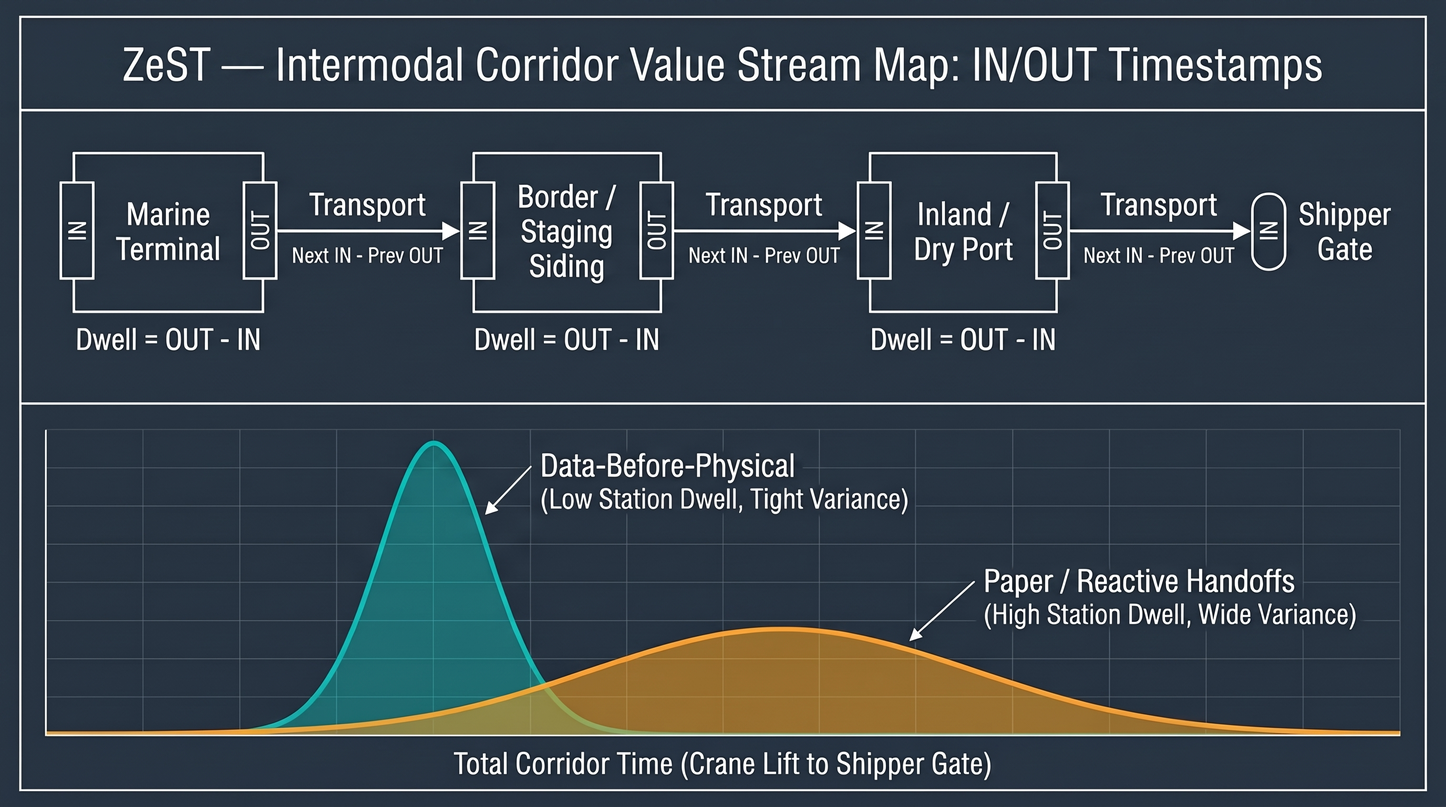
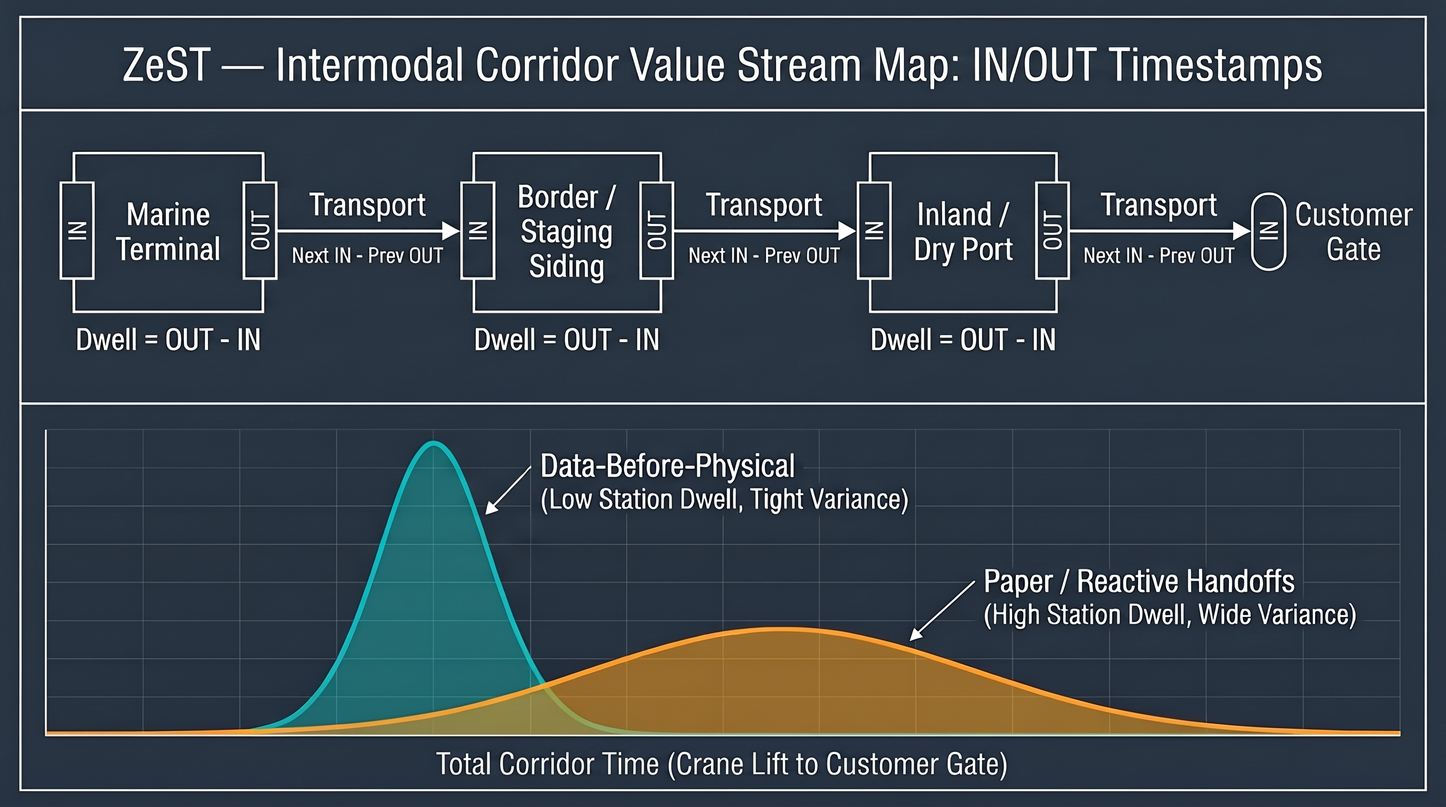
feat(docs): publish Series 1 Part 3 corridor VSM and updated Customer Gate graphic

diff --git a/docs/series/s01/03-corridor-value-stream-map.md b/docs/series/s01/03-corridor-value-stream-map.md
@@ -1,0 +1,50 @@
+# Part 3: Separating Transport Time from Transition Dwell
+
+*Published November 2026 | Series 1: European Intermodal Corridors & eFTI Alignment*
+
+You cannot fix latency in European intermodal freight—or justify billions in new physical infrastructure—until you separate **transport time** from **transition dwell**. Right now, we debate port expansions and decade-long rail builds without verifying two basic baseline numbers for Europe's seaport-to-rail corridors: **Mean Time to Delivery** and **standard deviation (variance)** from vessel crane lift to customer gate.
+
+During the smart-container session at Intermodal Europe in Rotterdam, I asked the IoT panel: instead of using container telemetry strictly to hunt down individual late boxes or monitor reefers, can we aggregate anonymized timestamps to baseline corridor performance end to end?
+
+**Yes.** IoT experts agree. Using the container as an IoT object to build a timestamp-based process model is technically possible and a good use of the technology.
+
+![ZeST Intermodal Corridor Value Stream Map: IN/OUT Timestamps](../../assets/images/ZeST-corridor-vsm-inout.jpg)
+
+## Building an Intermodal Value Stream Map
+
+Let's use container IoT to build a Value Stream Map—a process model—on an intermodal corridor. To do it, you need **IN** and **OUT** timestamps at every transition station:
+
+* **Marine Terminal:** Crane discharge (`IN`) → Rail ramp or gate exit (`OUT`)
+* **Border / Staging Siding:** Siding arrival (`IN`) → Departure (`OUT`)
+* **Inland / Dry Port:** Terminal arrival (`IN`) → Gate out to drayage (`OUT`)
+* **Destination:** Customer gate arrival (`IN`)
+
+Capturing `IN` and `OUT` at each node splits every trip into two distinct measurements:
+
+* **Inside the station (`OUT - IN`):** Transition dwell—yard re-handling, customs holds, missing release tokens, and uncoordinated rail slots.
+* **Between stations (`Next IN - Previous OUT`):** Pure transport time—actual rail and road transit velocity.
+
+## Pairing Physical Telemetry with the Data Stream
+
+Combining standardized facility geofences from the **Bureau International des Containers (BIC)** with container telemetry and platform capabilities across **Hapag-Lloyd AG**, **Nexxiot**, **Hoopo**, **BoxPlus**, **Bright Moon Digital Solutions**, and **ORBCOMM** makes this baseline achievable without waiting on new concrete.
+
+Better yet, do the same for the data stream associated with the container flow. Now managing the business is possible.
+
+Holistic adoption of EU eFTI mandates can make this kind of study Standard Operating Procedure.
+
+## The Operational Payoff
+
+Once you characterize physical transit limits and identify self-inflicted administrative dwell, you can do targeted cost and latency reduction. And once a port and its rail partners publish tight, verifiable corridor variance:
+
+* **Rail** gets a schedule it can plan around.
+* **Drayage** shifts to predictable single-day turns.
+* **Shippers** gain the confidence to pull time-sensitive cargo off expensive air freight onto intermodal.
+
+---
+
+**Open Question for 2027:** For the IoT, port, and rail teams building toward 2027, what is the main blocker to running an anonymized IN/OUT corridor baseline today—geofence standardization, data-sharing governance, or getting the first shipper to sponsor a lane?
+
+### Related Resources
+
+* [Europe's Seaport & TEN-T Rail Corridors Reference Map](https://www.google.com/maps/d/view?mid=12sJsaCJ9CQAtialOOIJHQEBrvgnlBn0&usp=sharing)
+* [Open-Source Discrete-Event Simulation (`open-zest/zest-core`, Apache 2.0)](https://github.com/open-zest/zest-core)
